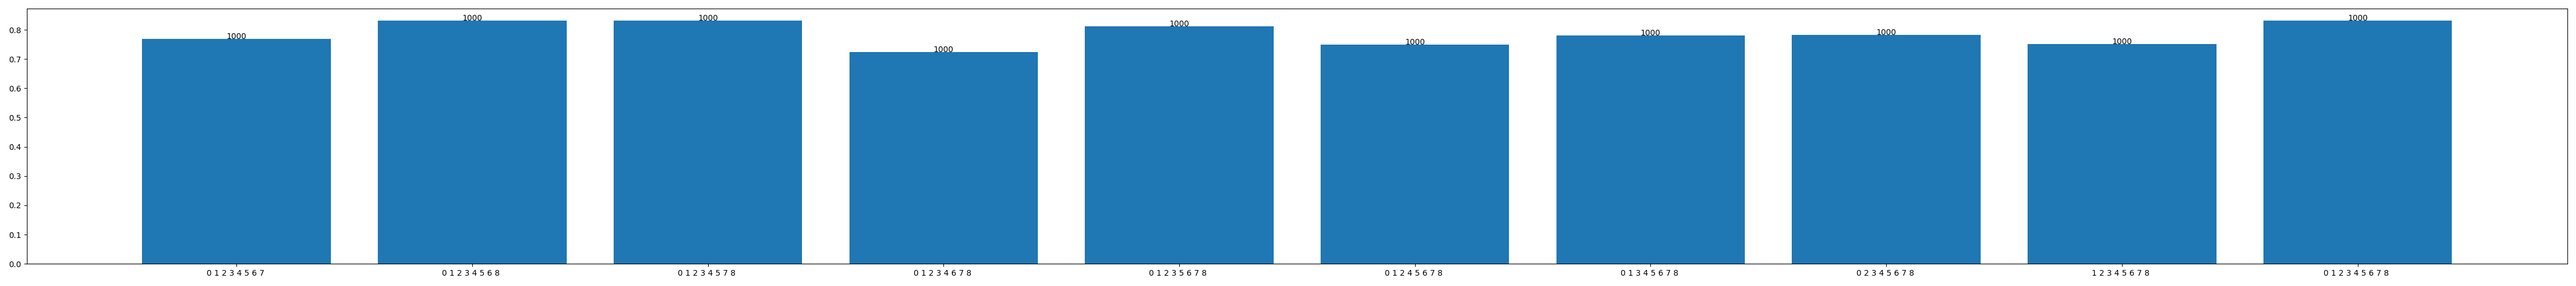
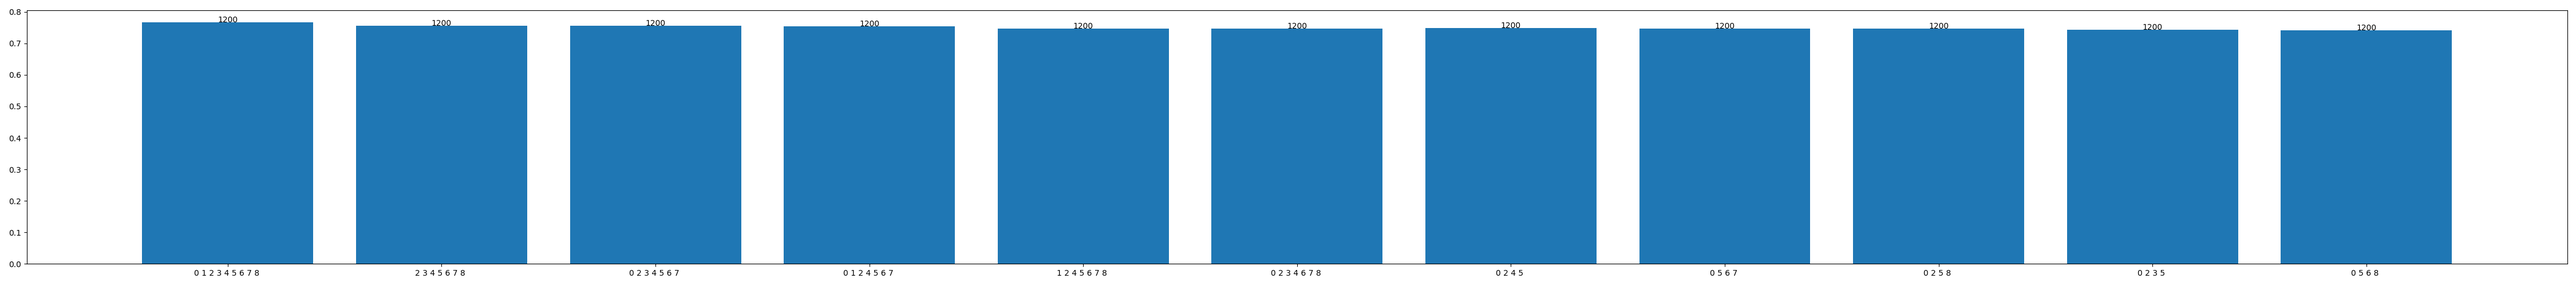
Add MLP+CNN

diff --git a/dataloader.py b/dataloader.py
@@ -1,6 +1,6 @@
 import os
 import numpy as np
-
+from tensorflow.keras.preprocessing import image
 
 def data_loader(root_path=''):
     """
@@ -77,3 +77,100 @@ def data_process(data_train, label_train, data_val, label_val, feature_list):
     data_val_processed = data_val[:, feature_list]
     label_val_processed = np.eye(2)[label_val.reshape(-1)]
     return data_train_processed, label_train_processed, data_val_processed, label_val_processed
+
+def data_loader_CNNimage(root_path='', CNN_model=None):
+    # load csv
+    data_all = np.empty(shape=[1, 14])
+    for info in os.listdir(root_path + './csv'):
+        domain = root_path + './csv/'
+        info = os.path.join(domain, info)
+        data = np.loadtxt(info, delimiter=",", skiprows=1)
+        data_all = np.vstack((data_all, data))
+
+    data_all = np.delete(data_all, 0, 0)
+    allimg = []
+    for index in range(len(data_all)):
+        img = image.load_img(r'./crop/' + str(int(data_all[index, 1])) + '.jpg',
+                             target_size=(224, 224, 3))
+        img = image.img_to_array(img)
+        img = img / 255
+        allimg.append(img)
+    img_total = np.array(allimg)
+    img_feature = np.argmax(CNN_model.predict(img_total), axis=1)
+    img_feature = img_feature[:, np.newaxis]
+    data_all = np.concatenate((data_all, img_feature), axis=1)
+    data_all = np.delete(data_all, np.s_[0, 1, 7, 8], axis=1)
+
+    # preprocessing
+    label = data_all[:, 0]
+    feature = data_all[:, 1:]
+    # feature = normalize(feature, axis=0, norm='max')
+    feature[:, [3, 8]] = (feature[:, [3, 8]] - feature[:, [3, 8]].min(axis=0)) / \
+                         (feature[:, [3, 8]].max(axis=0) - feature[:, [3, 8]].min(axis=0))
+    # feature_norm = (feature - feature.min(axis=0)) / (feature.max(axis=0) - feature.min(axis=0))
+    arr = np.array(range(0, 1662))
+    arr = np.random.permutation(arr)
+    feature = feature[arr]
+    label = label[arr].astype(int)
+
+    # load training and testing data
+    data_train = feature[0:1200]
+    label_train = label[0:1200]
+    data_test = feature[1200:]
+    label_test = label[1200:]
+
+    data_val = data_test
+    label_val = label_test
+
+    return data_train, label_train, data_val, label_val
+
+def data_loader_meanimage(root_path=''):
+    # load csv
+    data_all = np.empty(shape=[1, 14])
+    for info in os.listdir(root_path + './csv'):
+        domain = root_path + './csv/'
+        info = os.path.join(domain, info)
+        data = np.loadtxt(info, delimiter=",", skiprows=1)
+        data_all = np.vstack((data_all, data))
+
+    data_all = np.delete(data_all, 0, 0)
+    img_feature = np.zeros((len(data_all), 3))
+    for index in range(len(data_all)):
+        img = image.load_img(r'./crop/' + str(int(data_all[index, 1])) + '.jpg',
+                             target_size=(224, 224, 3))
+        img = image.img_to_array(img)
+        img = img / 255
+
+        count = 0
+        for ii in range(len(img)):
+            for jj in range(len(img[0])):
+                if np.any(img[ii, jj, :] < 1):
+                    count = count + 1
+                    img_feature[index, :] = img_feature[index, :] + img[ii, jj, :]
+        img_feature[index, :] = img_feature[index, :] / count
+
+    data_all = np.concatenate((data_all, img_feature), axis=1)
+    data_all = np.delete(data_all, np.s_[0, 1, 7, 8], axis=1)
+
+    # preprocessing
+    label = data_all[:, 0]
+    feature = data_all[:, 1:]
+    # feature = normalize(feature, axis=0, norm='max')
+    feature[:, [3, 8]] = (feature[:, [3, 8]] - feature[:, [3, 8]].min(axis=0)) / \
+                         (feature[:, [3, 8]].max(axis=0) - feature[:, [3, 8]].min(axis=0))
+    # feature_norm = (feature - feature.min(axis=0)) / (feature.max(axis=0) - feature.min(axis=0))
+    arr = np.array(range(0, 1662))
+    arr = np.random.permutation(arr)
+    feature = feature[arr]
+    label = label[arr].astype(int)
+
+    # load training and testing data
+    data_train = feature[0:1200]
+    label_train = label[0:1200]
+    data_test = feature[1200:]
+    label_test = label[1200:]
+
+    data_val = data_test
+    label_val = label_test
+
+    return data_train, label_train, data_val, label_val

diff --git a/test.py b/test.py
@@ -1,4 +1,5 @@
 import numpy as np
 
-a = np.array([])
-print(len(a))
+a = np.array([1, 2, 3])
+b = np.array([[1, 2, 3], [4, 5, 6]])
+print(a + b[1, :])
